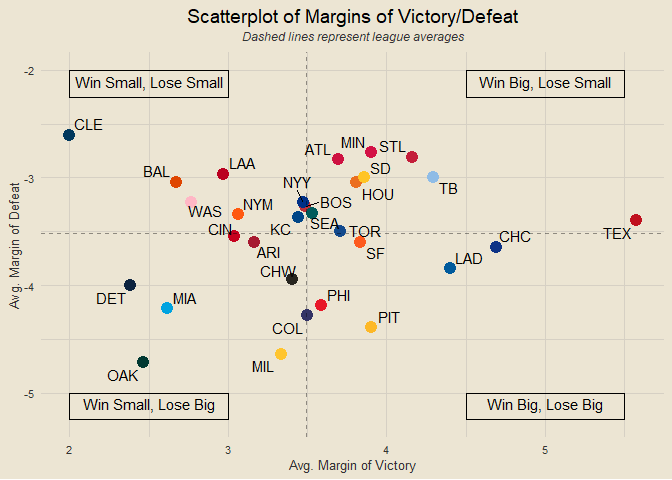
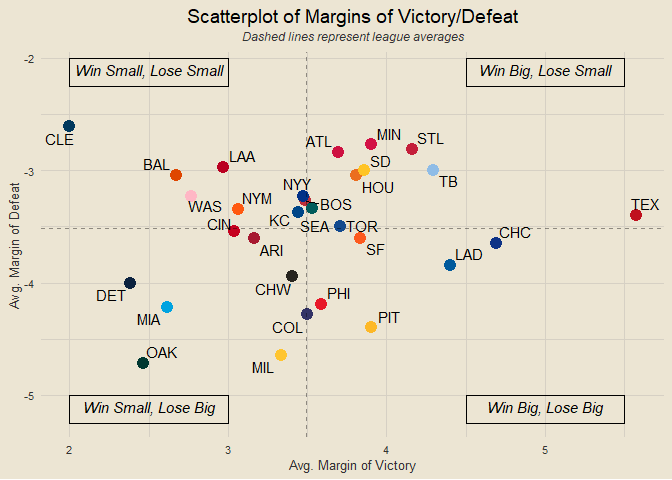
daily update

diff --git a/README.md b/README.md
@@ -446,14 +446,16 @@ team_margins |>
   labs(x = "Avg. Margin of Victory", y = "Avg. Margin of Defeat",
        title = "Scatterplot of Margins of Victory/Defeat",
        subtitle = "Dashed lines represent league averages") +
-  annotate("text", x = 2.5, y = -5.1, label = "Win Small, Lose Big") +
-  annotate("text", x = 5, y = -5.1, label = "Win Big, Lose Big") +
-  annotate("text", x = 2.5, y = -2.1, label = "Win Small, Lose Small") +
-  annotate("text", x = 5, y = -2.1, label = "Win Big, Lose Small") +
+  annotate("text", x = 2.5, y = -5.1, label = "Win Small, Lose Big", fontface = "italic") +
+  annotate("text", x = 5, y = -5.1, label = "Win Big, Lose Big", fontface = "italic") +
+  annotate("text", x = 2.5, y = -2.1, label = "Win Small, Lose Small", fontface = "italic") +
+  annotate("text", x = 5, y = -2.1, label = "Win Big, Lose Small", fontface = "italic") +
   geom_rect(aes(xmin = 2, xmax = 3, ymin = -2.25, ymax = -2), col = "black", fill = "transparent") +
   geom_rect(aes(xmin = 2, xmax = 3, ymin = -5.25, ymax = -5), col = "black", fill = "transparent") + 
   geom_rect(aes(xmin = 4.5, xmax = 5.5, ymin = -2.25, ymax = -2), col = "black", fill = "transparent") +
-  geom_rect(aes(xmin = 4.5, xmax = 5.5, ymin = -5.25, ymax = -5), col = "black", fill = "transparent")
+  geom_rect(aes(xmin = 4.5, xmax = 5.5, ymin = -5.25, ymax = -5), col = "black", fill = "transparent") +
+  coord_cartesian(xlim = c(min(team_margins$win_margin), max(team_margins$win_margin)),
+                  ylim = c(min(team_margins$def_margin) - 0.5, max(team_margins$def_margin) + 0.5))
 ```
 
 ![](README_files/figure-gfm/unnamed-chunk-15-1.png)<!-- -->
